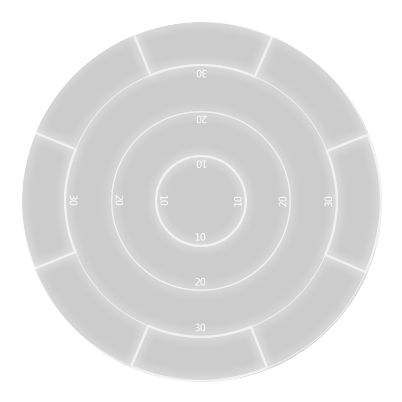
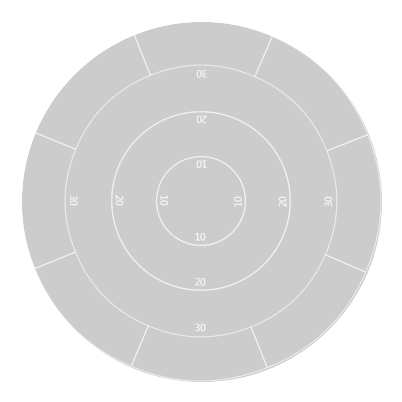
git-svn-id: https://opengl-scut.googlecode.com/svn/trunk@667 81c3a017-244d-672b-1dc6-c8d6962b81c2

diff --git a/bin/Python/MultiPlayIni.py b/bin/Python/MultiPlayIni.py
@@ -286,8 +286,8 @@ def GetRoot():
     post1.LoadImage("../media/UIResource/Game/post_1.png")
     post1.SetAntiAliasing()
     post1.SetName( "centerCursor" )
-    #post1.SetAlpha( 0 )
-    #post1.SetVisible( False )
+    post1.SetAlpha( 0 )
+    post1.SetVisible( False )
     rotAni = uiManager.CreateAnimatorRotation( 0, 2000, 360, True )
     post1.AddAnimator( rotAni )
     rotAni.drop()
@@ -296,8 +296,8 @@ def GetRoot():
     post2 = uiManager.AddUIImage( root, 46, 46, 0, 1, vector2df( cenX, cenY ) )
     post2.LoadImage("../media/UIResource/Game/post_2.png")
     post2.SetAntiAliasing()
-    #post2.SetVisible( False )
-    #post2.SetAlpha( 0 )
+    post2.SetVisible( False )
+    post2.SetAlpha( 0 )
     post2.SetName( "cursor" )
     rotAni2 = uiManager.CreateAnimatorRotation( 0, 2000, -360, True )
     post2.AddAnimator( rotAni2 )
@@ -313,13 +313,13 @@ def GetRoot():
     speedBar1 = uiManager.AddUIImage( root, 80, 456, 0, 0, vector2df( cenX + 446, cenY ) )
     speedBar1.LoadImage("../media/UIResource/Game/speed_1.png")
     speedBar1.SetName( "speed1" )
-    #speedBar1.SetAlpha( 0 )
-    #speedBar1.SetVisible( False )
+    speedBar1.SetAlpha( 0 )
+    speedBar1.SetVisible( False )
     # 速度显示文字
     speedText = uiManager.AddUIStaticText( root, 100, 20, u"速度:", SColor(255,255,255,255) )
     speedText.SetName( "speedText" )
     speedText.SetPosition( vector2df( cenX + 330, cenY + 210 ) )
-    #speedText.SetVisible( False )
+    speedText.SetVisible( False )
 
     # 能量槽空
     energy2 = uiManager.AddUIImage( root, 78, 437, 0, 0, vector2df( cenX + 426, cenY ) )
@@ -331,13 +331,13 @@ def GetRoot():
     energy1 = uiManager.AddUIImage( root, 78, 437, 0, 0, vector2df( cenX + 426, cenY ) )
     energy1.LoadImage("../media/UIResource/Game/energy_1.png")
     energy1.SetName( "energy1" )
-    #energy1.SetAlpha( 0 )
-    #energy1.SetVisible( False )
+    energy1.SetAlpha( 0 )
+    energy1.SetVisible( False )
     # 能量显示文字
     energyText = uiManager.AddUIStaticText( root, 100, 20, u"能量:", SColor(255,255,255,255) )
     energyText.SetName( "energyText" )
     energyText.SetPosition( vector2df( cenX + 345, cenY + 190 ) )
-    #energyText.SetVisible( False )
+    energyText.SetVisible( False )
 
     # 护盾槽空
     shield2 = uiManager.AddUIImage( root, 78, 437, 0, 0, vector2df( cenX - 426, cenY ) )
@@ -349,13 +349,13 @@ def GetRoot():
     shield1 = uiManager.AddUIImage( root, 78, 437, 0, 0, vector2df( cenX - 426, cenY ) )
     shield1.LoadImage("../media/UIResource/Game/shield_1.png")
     shield1.SetName( "shield1" )
-    #shield1.SetAlpha( 0 )
-    #shield1.SetVisible( False )
+    shield1.SetAlpha( 0 )
+    shield1.SetVisible( False )
     # 护盾显示文字
     shieldText = uiManager.AddUIStaticText( root, 100, 20, u"护盾:", SColor(255,255,255,255) )
     shieldText.SetName( "shieldText" )
     shieldText.SetPosition( vector2df( cenX - 315, cenY + 190 ) )
-    #shieldText.SetVisible( False )
+    shieldText.SetVisible( False )
 
     # 护甲槽满
     armor2 = uiManager.AddUIImage( root, 80, 456, 0, 0, vector2df( cenX - 446, cenY ) )
@@ -367,13 +367,13 @@ def GetRoot():
     armor1 = uiManager.AddUIImage( root, 80, 456, 0, 0, vector2df( cenX - 446, cenY ) )
     armor1.LoadImage("../media/UIResource/Game/armor_1.png")
     armor1.SetName( "armor1" )
-    #armor1.SetAlpha( 0 )
-    #armor1.SetVisible( False )
+    armor1.SetAlpha( 0 )
+    armor1.SetVisible( False )
     # 护甲显示文字
     armorText = uiManager.AddUIStaticText( root, 100, 20, u"护甲:", SColor(255,255,255,255) )
     armorText.SetName( "armorText" )
     armorText.SetPosition( vector2df( cenX - 300, cenY + 210 ) )
-    #armorText.SetVisible( False )
+    armorText.SetVisible( False )
 
     # 雷达
     #radarBox = uiManager.AddUIImage( root, 0, 0, 0, 0, vector2df( cenX - 430, cenY + 260 ) )
@@ -431,23 +431,23 @@ def GetRoot():
     lock.SetPosition( vector2df( 200, 200 ) )
     lock.SetName( "lock1" )
     lock.SetVisible( False )
-    lock1 = uiManager.AddUIImage( lock, 100, 100 )
-    lock1.LoadImage( "../media/UIResource/Game/lock2.png" )
+    '''lock1 = uiManager.AddUIImage( lock, 100, 100 )
+    lock1.LoadImage( "../media/UIResource/Game/lock1.png" )
     lock1.SetAntiAliasing()
     ani = uiManager.CreateAnimatorRotation( 0, 2000, 360, True )
     lock1.AddAnimator( ani )
-    ani.drop()
+    ani.drop()'''
     lock2 = uiManager.AddUIImage( lock, 100, 100 )
-    lock2.LoadImage( "../media/UIResource/Game/lock1.png" )
+    lock2.LoadImage( "../media/UIResource/Game/lock2.png" )
     lock2.SetAntiAliasing()
     ani = uiManager.CreateAnimatorRotation( 0, 2000, -360, True )
     lock2.AddAnimator( ani )
     ani.drop()
     #敌人详细信息
-    enemyInfo = uiManager.AddUIImage( lock, 56, 79 )
+    enemyInfo = uiManager.AddUIImage( lock, 150, 80 )
     enemyInfo.LoadImage( "../media/UIResource/Game/target_info_box.png" )
     enemyInfo.SetAntiAliasing()
-    enemyInfo.SetPosition( vector2df( 60, 0 ) )
+    enemyInfo.SetPosition( vector2df( 105, 0 ) )
     #enemyInfo.SetName( "enemyInfo" )
     distance = uiManager.AddUIStaticText( enemyInfo, 100, 20, u"距离：", SColor(255,255,255,255) )
     distance.SetName( "targetDistance" )

diff --git a/Code/Scar/Scar/MultiplayerScene.cpp b/Code/Scar/Scar/MultiplayerScene.cpp
@@ -109,35 +109,35 @@ void MultiplayerScene::Run()
 				Station1 = smgr->getSceneNodeFromName( "station1" );
 				Station2 = smgr->getSceneNodeFromName( "station2" );
 
-				//// 加载战场
-				//try
-				//{
-				//	using namespace boost::python;
-				//	object map = import( "BattleField1" );
-				//	object LoadMap = map.attr( "LoadMap" );
-				//	LoadMap();
-				//}
-				//catch ( ... )
-				//{
-				//	PyErr_Print();
-				//}
-				//BattleField = smgr->getSceneNodeFromName( "battleField" );
-				//bfEarth = smgr->getSceneNodeFromName( "bfEarth" );
-				//bfMoon = smgr->getSceneNodeFromName( "bfMoon" );
-				//bfGate = smgr->getSceneNodeFromName( "bfGate" );
-				//bfGate->setID( 4004 );
+				// 加载战场
+				try
+				{
+					using namespace boost::python;
+					object map = import( "BattleField1" );
+					object LoadMap = map.attr( "LoadMap" );
+					LoadMap();
+				}
+				catch ( ... )
+				{
+					PyErr_Print();
+				}
+				BattleField = smgr->getSceneNodeFromName( "battleField" );
+				bfEarth = smgr->getSceneNodeFromName( "bfEarth" );
+				bfMoon = smgr->getSceneNodeFromName( "bfMoon" );
+				bfGate = smgr->getSceneNodeFromName( "bfGate" );
+				bfGate->setID( 4004 );
 
-				//// 显示选择阵营菜单
-				//SelectCampMenu = uiManager->GetUIObjectByName( "scMenu" );
-				//SelectCampMenu->SetVisible( true );
-				//SelectCampMenu->SetAlpha( 0 );
-				//IUIAnimator* alpAni = uiManager->CreateAnimatorAlphaChange( 0, 1000, 0, 255 );
-				//SelectCampMenu->AddAnimator( alpAni );
-				//alpAni->drop();
+				// 显示选择阵营菜单
+				SelectCampMenu = uiManager->GetUIObjectByName( "scMenu" );
+				SelectCampMenu->SetVisible( true );
+				SelectCampMenu->SetAlpha( 0 );
+				IUIAnimator* alpAni = uiManager->CreateAnimatorAlphaChange( 0, 1000, 0, 255 );
+				SelectCampMenu->AddAnimator( alpAni );
+				alpAni->drop();
 
-				//// 播放背景音乐
-				//SoundCurrentBG = m_pSoundEngine->play2D( SoundMenuBG, false, true );
-				//SoundCurrentBG->setIsPaused( false );
+				// 播放背景音乐
+				SoundCurrentBG = m_pSoundEngine->play2D( SoundMenuBG, false, true );
+				SoundCurrentBG->setIsPaused( false );
 			}
 
 			// 在此处进行游戏逻辑
@@ -402,9 +402,9 @@ void MultiplayerScene::Run()
 				SubState = 0;
 				m_pCamera->removeAnimators();
 				// 将镜头平移至飞船
-				m_pCamera->setTarget( player->GetShip()->getPosition() + vector3df(50,0,0) );
+				m_pCamera->setTarget( player->GetShip()->getTarget() );
 				auto ani = pEngine->GetMySceneManager()->createTheBeginMoveAnimator(
-					m_pCamera->getPosition(), player->GetShip()->getPosition()+vector3df(-10,0,0), 0, 2000, 1 );
+					m_pCamera->getPosition(), player->GetShip()->getPosition()+vector3df(30,0,0), 0, 2000, 1 );
 				m_pCamera->addAnimator( ani );
 				ani->drop();
 				// 换背景音效''
@@ -462,6 +462,10 @@ void MultiplayerScene::Run()
 						m_playerHelper->AddInfoMsg( InfoAndWarn::PII_B3 );
 						m_playerHelper->AddInfoMsg( InfoAndWarn::PII_B4 );
 					}
+					else if ( playerShip->GetEnergy() == 500 )
+						m_playerHelper->Vertical->setVisible( true );
+					else if ( playerShip->GetEnergy() == 700 )
+						m_playerHelper->Horizon->setVisible( true );
 					playerShip->SetEnergy( playerShip->GetEnergy() + 5 );
 				}
 				if ( m_playerHelper->Cursor->GetAlpha() == 255 && !player->GetConfirm() )
@@ -812,7 +816,7 @@ void MultiplayerScene::Run()
 
 			m_playerHelper->Update();
 			m_playerManager->Update();
-			//pEngine->GetDevice()->getCursorControl()->setPosition( 0.5f, 0.5f );
+			pEngine->GetDevice()->getCursorControl()->setPosition( 0.5f, 0.5f );
 		}
 		break;
 #pragma endregion Warp
@@ -848,7 +852,7 @@ void MultiplayerScene::Run()
 				bullet->setID( 4003 );
 				bullet->setMaterialTexture( 0, driver->getTexture( "../media/Weapon/bullet.png" ) );
 				bullet->SetVelocity( 1600 );
-				bullet->SetInterval( 100 );
+				bullet->SetInterval( 60 );
 				playerShip->AddGun( bullet );
 				bullet->drop();
 				// 创建火控

diff --git a/bin/Python/SelectCampScene.py b/bin/Python/SelectCampScene.py
@@ -120,21 +120,25 @@ def LoadMap():
 
      # 水平标尺
     horizon = smgr.addBillboardSceneNode( camera, dimension2df( 60, 5 ) )
+    horizon.setName( "horizon" )
     horizon.setPosition( vector3df( 0,-10,100 ) )
     horizon.setMaterialTexture( 0, smgr.getTexture( "../media/UIResource/Game/horizon.png" ) )
     horizon.setMaterialTexture( 1, smgr.getTexture( "../media/UIResource/Game/alphaMaskH.png" ) )
     horizon.setMaterialFlag( EMF_ZBUFFER, False )
     horizon.setID( 4001 )
+    horizon.setVisible( False )
     #horizon.setMaterialFlag( EMF_LIGHTING, False )
     #flare1.setMaterialType( EMT_TRANSPARENT_ADD_COLOR )
     shader.ApplyShaderGeneralCallback( horizon, "", "Shader/Horizon.frag", EMT_TRANSPARENT_ADD_COLOR )
 
     # 垂直标尺
     vertical = smgr.addBillboardSceneNode( camera, dimension2df( 30, 40 ) )
+    vertical.setName( "vertical" )
     vertical.setPosition( vector3df( 0, 0, 80 ) )
     vertical.setMaterialTexture( 0, smgr.getTexture( "../media/UIResource/Game/vertical.png" ) )
     vertical.setMaterialTexture( 1, smgr.getTexture( "../media/UIResource/Game/alphaMaskV.png" ) )
     vertical.setMaterialFlag( EMF_ZBUFFER, False )
     vertical.setID( 4001 )
-    shader.ApplyShaderGeneralCallback( vertical, "", "Shader/Vertical.frag", EMT_TRANSPARENT_ADD_COLOR )
+    vertical.setVisible( False )
+    #shader.ApplyShaderGeneralCallback( vertical, "Shader/Vertical.vert", "Shader/Vertical.frag", EMT_TRANSPARENT_ADD_COLOR )
     

diff --git a/Code/Scar/Scar/FireAnimator.cpp b/Code/Scar/Scar/FireAnimator.cpp
@@ -27,12 +27,18 @@ void ShipFireAnimator::animateNode( ISceneNode* node, u32 timeMs )
 		Initialized = true;
 	}
 
+	if ( Ship->GetEnergy() < Ship->GetMaxEnergy() )
+		Ship->SetEnergy( Ship->GetEnergy() + 2 );
+
 	if ( IsFire )
 	{
 		for( u32 i = 0; i < Ship->GetGuns().size(); i++ )
 		{
-			if ( timeMs - LastTimes[i] > Ship->GetGuns()[i]->GetInterval() )
+			if ( timeMs - LastTimes[i] > Ship->GetGuns()[i]->GetInterval() && Ship->GetEnergy() > 20)
 			{
+				Ship->SetEnergy( Ship->GetEnergy() - 20 );
+				if( Ship->GetEnergy() < 0 )
+					Ship->SetEnergy( 0 );
 				//CSceneNodeAnimatorSelfDelFlyStraight* ani;
 				//ISceneNodeAnimator* del;
 				//ISceneNode* newBullet;
